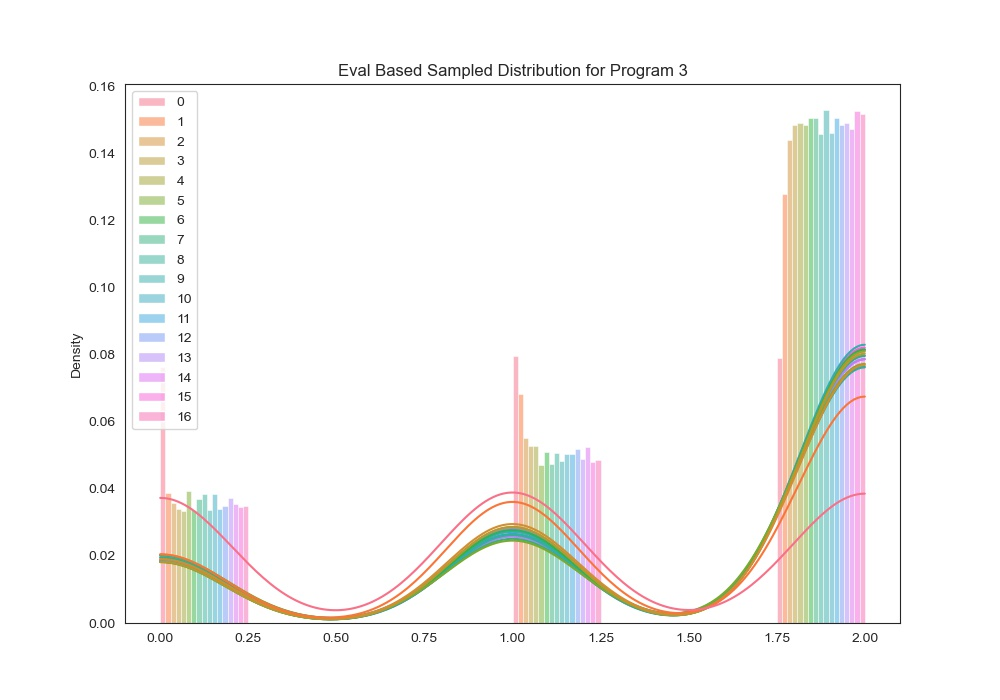
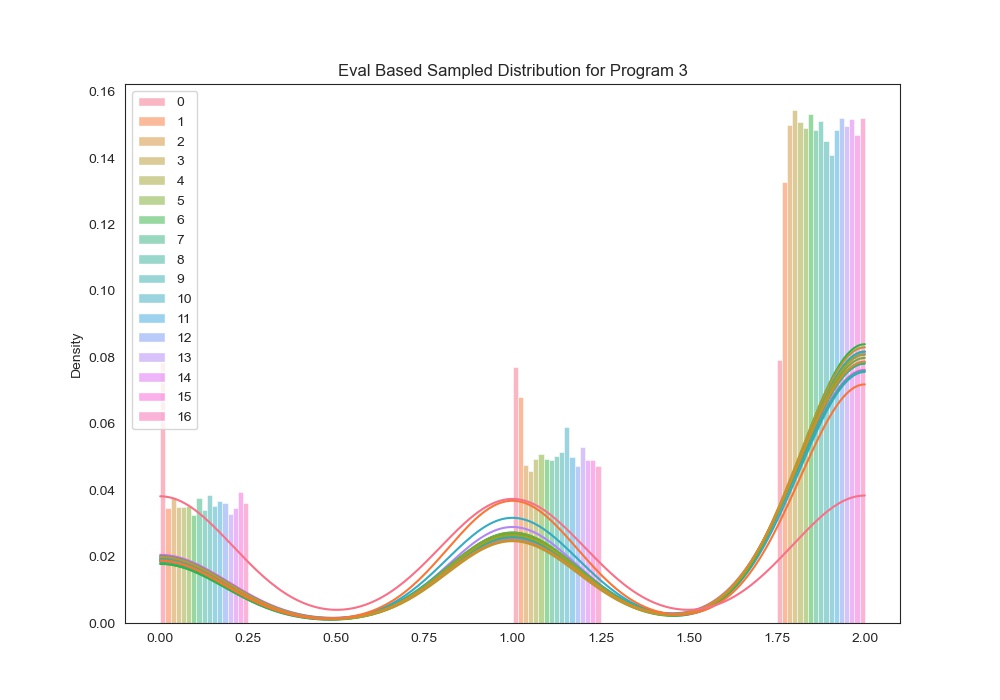
implemented IS sampling

diff --git a/evaluation_based_sampling.py b/evaluation_based_sampling.py
@@ -19,65 +19,73 @@ def add_context(vals, c, context):
         context[vals[i]] = c[i]
     return context
 
-def evaluate_program_sample(dist, context):
+def evaluate_program_observe(dist, exp, context, sig):
+    d, sig = evaluate_program_help(dist, context, sig)
+    c, sig = evaluate_program_help(exp, context, sig)
+    if not torch.is_tensor(c):
+        c = torch.tensor(c)
+    sig += d.log_prob(c)
+    return c, sig
+
+def evaluate_program_sample(dist, context, sig):
     try:
         # single sample
-        return evaluate_program_help(dist, context)[0].sample().item(), []
+        return evaluate_program_help(dist, context, sig)[0].sample().item(), sig
     except:
         # multi bath sample
-        return evaluate_program_help(dist, context)[0].sample(), []
+        return evaluate_program_help(dist, context, sig)[0].sample(), sig
 
-def evaluate_program_let(exp_1,exp_0, context):
-    context[exp_1[0]], sig = evaluate_program_help(exp_1[1],context)
-    return evaluate_program_help(exp_0, context)
+def evaluate_program_let(exp_1,exp_0, context, sig):
+    context[exp_1[0]], sig = evaluate_program_help(exp_1[1],context, sig)
+    return evaluate_program_help(exp_0, context,sig)
     
-def evaluate_program_bool(exp_1,exp_2,exp_3, context):
-    e_bool, sig = evaluate_program_help(exp_1, context)
+def evaluate_program_bool(exp_1,exp_2,exp_3, context, sig):
+    e_bool, sig = evaluate_program_help(exp_1, context, sig)
     if e_bool:
-        return evaluate_program_help(exp_2, context)
+        return evaluate_program_help(exp_2, context, sig)
     else:
-        return evaluate_program_help(exp_3, context) 
+        return evaluate_program_help(exp_3, context, sig) 
 
-def evaluate_program_help(ast, context):
+def evaluate_program_help(ast,context,sig=0):
     # 8: case c
     if is_ast_c(ast):                                                         
         if pr.is_primitive(ast):                                             
             return context[ast[0]]
         else: 
-            return ast, []  
+            return ast, sig  
     # 4: case sample                          
     elif ast[0] == 'sample':                                                 
-        return evaluate_program_sample(ast[1],context)
+        return evaluate_program_sample(ast[1],context, sig)
     # 12: case let
     elif ast[0] == 'let':                                                    
-        return evaluate_program_let(ast[1],ast[2], context)
+        return evaluate_program_let(ast[1],ast[2], context, sig)
     # 6: case observe
     elif ast[0] == 'observe':                                                
-        return evaluate_program_sample(ast[1], context)
+        return evaluate_program_observe(ast[1],ast[2], context, sig)
     # 15: case if
     elif ast[0] == 'if':                                                     
-        return evaluate_program_bool(ast[1],ast[2],ast[3], context)
+        return evaluate_program_bool(ast[1],ast[2],ast[3], context, sig)
     # 10: case v
     elif isinstance(ast, str):                                               
-        return context[ast], []
+        return context[ast], sig
     # 21: case (e_0,...,e_n)
     elif isinstance(ast, Iterable):                                          
         n = len(ast)
         c = []
         for i in range(1,n):
-            c_i, sig = evaluate_program_help(ast[i], context)
+            c_i, sig = evaluate_program_help(ast[i], context, sig)
             c.append(c_i)
         # 28: case c
         if pr.is_primitive(ast[0]):                                          
             operator = context[ast[0]]
-            return operator(*c), []
+            return operator(*c), sig
         # 25: case f
         else: 
             vals, e_0 = context[ast[0]]
             context = add_context(vals, c ,context)                                
-            return evaluate_program_help(e_0, context)                   
+            return evaluate_program_help(e_0, context, sig)                   
 
-def evaluate_program(ast):
+def evaluate_program(ast, sig=0):
     """Evaluate a program as desugared by daphne, generate a sample from the prior
     Args:
         ast: json FOPPL program
@@ -89,7 +97,7 @@ def evaluate_program(ast):
         if exp[0] == 'defn':
             context[exp[1]] = (exp[2], exp[3])
         else:
-           return evaluate_program_help(exp, context)
+           return evaluate_program_help(exp, context, sig)
 
 def get_stream(ast):
     """Return a stream of prior samples"""
@@ -153,4 +161,3 @@ if __name__ == '__main__':
         stream = get_stream(ast)
     
         utils.draw_hists("Eval Based", i, stream, n_samples)
-        #print(evaluate_program(ast)[0])

diff --git a/importance_sampling.py b/importance_sampling.py
@@ -1,0 +1,27 @@
+import os,torch,utils
+from daphne import daphne
+from evaluation_based_sampling import evaluate_program
+
+dirn = os.path.dirname(os.path.abspath(__file__))
+
+def likelihood_weighting(ast, L):
+    sig = torch.zeros(L)
+    r = torch.zeros(L)
+    for l in range(L):
+       r[l] , sig[l] = evaluate_program(ast,sig[l])
+    return r, sig
+
+if __name__ == '__main__':
+
+    for i in range(1,5):
+
+        n_samples=1000
+
+        filename = dirn + '/programs/{}.daphne'
+        ast = daphne(['desugar', '-i', filename.format(i)])
+        print('\n\n\nSample of prior of program {}:'.format(i))
+
+        samples, weights = likelihood_weighting(ast, n_samples)
+        samples = samples * weights
+    
+        utils.draw_hists("Eval Based", i, samples, n_samples)

diff --git a/utils.py b/utils.py
@@ -66,7 +66,7 @@ def gen_hists(eval, i, samples):
     try:
         # list of c
         min_v, max_v = min(samples), max(samples)
-        nbins = int(min(max_v-min_v,30))
+        nbins = int(max(max_v-min_v,10))
         bins = np.linspace(min_v, max_v,nbins)
         plot_hist(eval, i, samples, bins)
     except:

diff --git a/graph_based_sampling.py b/graph_based_sampling.py
@@ -165,8 +165,8 @@ def run_probabilistic_tests():
 if __name__ == '__main__':
     
 
-    #run_deterministic_tests()
-    #run_probabilistic_tests()
+    run_deterministic_tests()
+    run_probabilistic_tests()
 
     for i in range(1,5):
 
